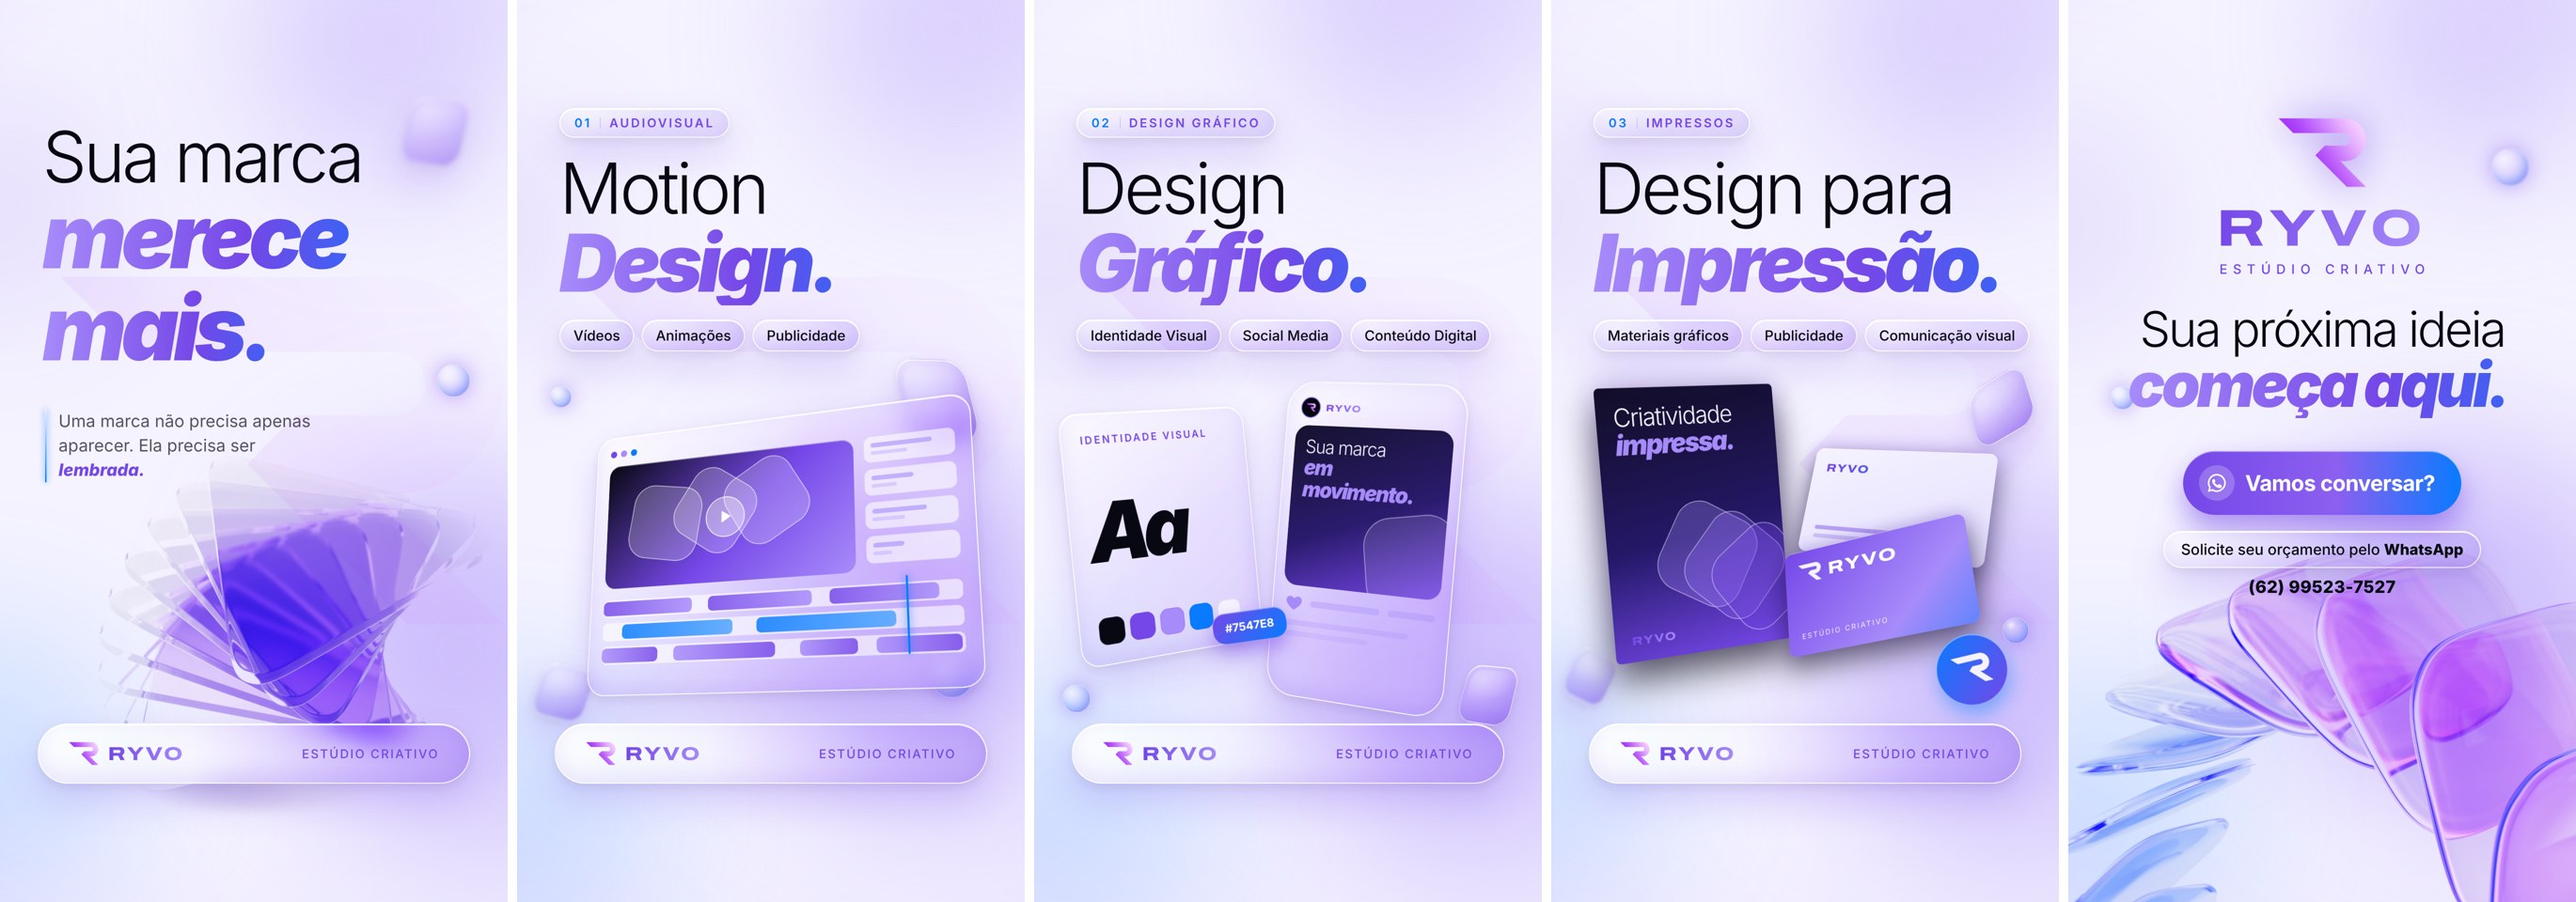
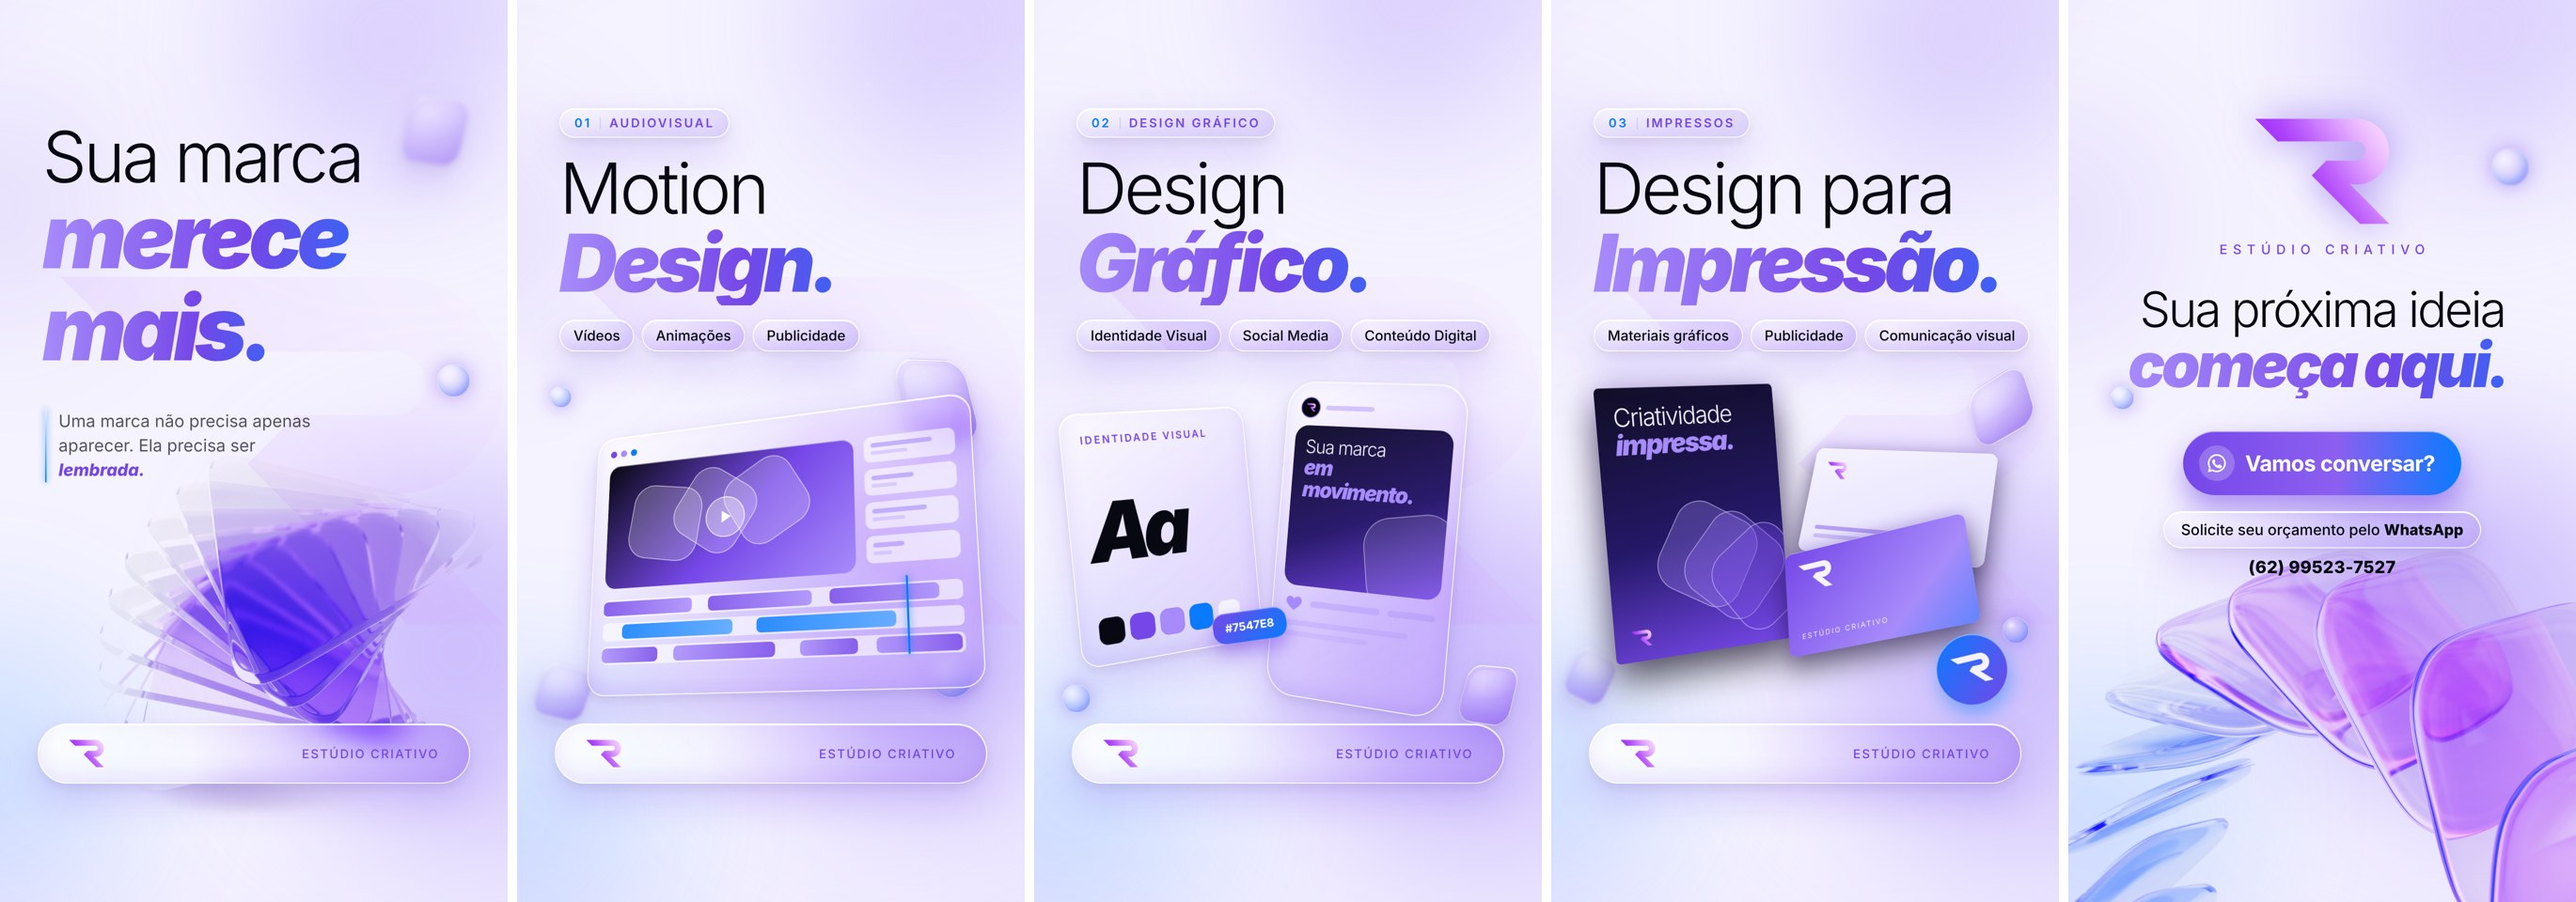
RYVO: marca só pelo símbolo R, tipografia só Inter
Claude-Session: https://claude.ai/code/session_01RMhrmJ1z1ZndANTpDwqCSa

diff --git a/src/ryvo/scenes/Scene4Impressao.tsx b/src/ryvo/scenes/Scene4Impressao.tsx
@@ -1,7 +1,7 @@
 import React from "react";
 import { AbsoluteFill, useCurrentFrame } from "remotion";
-import { Bubble, Chips, Eyebrow, GlassTile, Headline, LogoMark, LogoText, useProgress } from "../components";
-import { FONT, LOGO_FONT } from "../theme";
+import { Bubble, Chips, Eyebrow, GlassTile, Headline, LogoMark, useProgress } from "../components";
+import { FONT } from "../theme";
 
 const Card: React.FC<{ front?: boolean }> = ({ front }) => (
   <div
@@ -21,17 +21,12 @@ const Card: React.FC<{ front?: boolean }> = ({ front }) => (
   >
     {front ? (
       <>
-        <div style={{ display: "flex", alignItems: "center", gap: 16 }}>
-          <LogoMark height={44} white />
-          <span style={{ fontFamily: LOGO_FONT, fontStretch: "125%", fontWeight: 800, fontSize: 40, letterSpacing: "0.1em", color: "#fff" }}>
-            RYVO
-          </span>
-        </div>
+        <LogoMark height={64} white />
         <span style={{ fontFamily: FONT, fontSize: 16, letterSpacing: "0.2em", color: "rgba(255,255,255,0.85)" }}>ESTÚDIO CRIATIVO</span>
       </>
     ) : (
       <>
-        <LogoText size={26} style={{ background: "linear-gradient(90deg, #7547E8, #087BFF)", WebkitBackgroundClip: "text", backgroundClip: "text" }} />
+        <LogoMark height={40} />
         <div>
           <div style={{ height: 9, width: 180, borderRadius: 5, background: "rgba(117,71,232,0.45)" }} />
           <div style={{ height: 9, width: 130, borderRadius: 5, marginTop: 10, background: "rgba(117,71,232,0.25)" }} />
@@ -89,7 +84,7 @@ const Visual: React.FC = () => {
           />
         ))}
         <div style={{ position: "absolute", left: 36, bottom: 30 }}>
-          <LogoText size={24} />
+          <LogoMark height={34} />
         </div>
       </div>
 
@@ -133,12 +128,6 @@ const Visual: React.FC = () => {
           alignItems: "center",
           justifyContent: "center",
           boxShadow: "0 20px 40px rgba(8,123,255,0.45), inset 0 2px 0 rgba(255,255,255,0.5)",
-          fontFamily: LOGO_FONT,
-          fontStretch: "125%",
-          fontWeight: 800,
-          fontSize: 30,
-          color: "#fff",
-          letterSpacing: "0.08em",
         }}
       >
         <LogoMark height={64} white />

diff --git a/src/ryvo/scenes/Scene5Final.tsx b/src/ryvo/scenes/Scene5Final.tsx
@@ -1,7 +1,7 @@
 import React from "react";
 import { AbsoluteFill, Img, interpolate, staticFile, useCurrentFrame } from "remotion";
 import { useTheme } from "../ThemeContext";
-import { Bubble, Headline, LogoMark, LogoText, Reveal, useProgress } from "../components";
+import { Bubble, Headline, LogoMark, Reveal, useProgress } from "../components";
 import { FONT } from "../theme";
 
 const WhatsIcon: React.FC<{ size: number }> = ({ size }) => (
@@ -42,16 +42,15 @@ export const Scene5Final: React.FC = () => {
 
       <div style={{ position: "absolute", left: 0, right: 0, top: 250, display: "flex", flexDirection: "column", alignItems: "center" }}>
         <div style={{ opacity: logo, filter: `blur(${(1 - logo) * 16}px)`, transform: `scale(${0.9 + logo * 0.1})`, textAlign: "center" }}>
-          <div style={{ display: "flex", justifyContent: "center", marginBottom: 26 }}>
+          <div style={{ display: "flex", justifyContent: "center", marginBottom: 34 }}>
             <LogoMark
-              height={150}
+              height={230}
               style={{
                 transform: `translateX(${(1 - logo) * -60}px) rotate(${(1 - logo) * -8}deg)`,
                 filter: `drop-shadow(0 0 ${30 + Math.sin(t * 2) * 10}px rgba(117,71,232,0.55))`,
               }}
             />
           </div>
-          <LogoText size={110} />
           <div style={{ fontSize: 28, letterSpacing: "0.42em", color: T.accentText, fontWeight: 500, marginTop: 10, paddingLeft: "0.42em" }}>
             ESTÚDIO CRIATIVO
           </div>

diff --git a/src/ryvo/components.tsx b/src/ryvo/components.tsx
@@ -8,7 +8,7 @@ import {
   useCurrentFrame,
   useVideoConfig,
 } from "remotion";
-import { FONT, LOGO_FONT, P } from "./theme";
+import { FONT, P } from "./theme";
 import { useTheme } from "./ThemeContext";
 
 const ease = Easing.bezier(0.16, 1, 0.3, 1);
@@ -209,28 +209,6 @@ export const Bubble: React.FC<{ size: number; x: number; y: number; phase?: numb
   );
 };
 
-export const LogoText: React.FC<{ size: number; style?: React.CSSProperties }> = ({ size, style }) => {
-  const T = useTheme();
-  return (
-  <span
-    style={{
-      fontFamily: LOGO_FONT,
-      fontStretch: "125%",
-      fontWeight: 800,
-      fontSize: size,
-      letterSpacing: "0.1em",
-      background: T.logoGradient,
-      WebkitBackgroundClip: "text",
-      backgroundClip: "text",
-      color: "transparent",
-      ...style,
-    }}
-  >
-    RYVO
-  </span>
-  );
-};
-
 /** Official RYVO "R" symbol (PNG with transparency, aspect 1348:1060). */
 export const LogoMark: React.FC<{ height: number; white?: boolean; style?: React.CSSProperties }> = ({
   height,
@@ -263,10 +241,7 @@ export const BrandBar: React.FC<{ opacity?: number }> = ({ opacity = 1 }) => {
       background: T.brandBarBg,
     }}
   >
-    <div style={{ display: "flex", alignItems: "center", gap: 20 }}>
-      <LogoMark height={50} />
-      <LogoText size={40} />
-    </div>
+    <LogoMark height={60} />
     <span style={{ fontFamily: FONT, fontSize: 26, letterSpacing: "0.12em", color: T.accentText, fontWeight: 500 }}>
       ESTÚDIO CRIATIVO
     </span>

diff --git a/src/ryvo/scenes/Scene3Grafico.tsx b/src/ryvo/scenes/Scene3Grafico.tsx
@@ -1,7 +1,7 @@
 import React from "react";
 import { AbsoluteFill, interpolate, useCurrentFrame } from "remotion";
 import { useTheme } from "../ThemeContext";
-import { Bubble, Chips, Eyebrow, GlassTile, Headline, LogoMark, LogoText, useProgress } from "../components";
+import { Bubble, Chips, Eyebrow, GlassTile, Headline, LogoMark, useProgress } from "../components";
 import { FONT } from "../theme";
 
 /** Phone with a social post + identity board, fanned in 3D. */
@@ -76,7 +76,7 @@ const Visual: React.FC = () => {
           <div style={{ width: 46, height: 46, borderRadius: 23, background: "#080812", border: "2px solid #A78BFA", display: "flex", alignItems: "center", justifyContent: "center" }}>
             <LogoMark height={18} />
           </div>
-          <LogoText size={20} />
+          <div style={{ height: 10, width: 110, borderRadius: 5, background: "rgba(167,139,250,0.45)" }} />
         </div>
         <div
           style={{

diff --git a/src/ryvo/theme.ts b/src/ryvo/theme.ts
@@ -1,12 +1,11 @@
 import "@fontsource-variable/inter";
 import "@fontsource-variable/inter/wght-italic.css";
-import "@fontsource-variable/archivo/wdth.css";
 
 export const FPS = 30;
 export const W = 1080;
 export const H = 1920;
 
-// Tipografia: no máximo 2 famílias — Inter (todos os textos) e Archivo Expanded (só o nome RYVO).
+// Tipografia: uma família só (Inter). A marca aparece apenas pelo símbolo R.
 
 // Paleta oficial RYVO
 export const P = {
@@ -27,7 +26,6 @@ export const C = {
 };
 
 export const FONT = "'Inter Variable', Inter, sans-serif";
-export const LOGO_FONT = "'Archivo Variable', Archivo, sans-serif";
 
 export const headlineGradient = `linear-gradient(90deg, ${P.ice} 0%, ${P.lavender} 45%, ${P.violet} 100%)`;
 export const logoGradient = `linear-gradient(90deg, ${P.ice} 0%, ${P.lavender} 100%)`;

diff --git a/entrega/ROTEIRO-RYVO-adaptado.md b/entrega/ROTEIRO-RYVO-adaptado.md
@@ -2,7 +2,7 @@
 
 Formato: vertical 1080x1920 (Reels/Stories), 30fps.
 Estilo: glassmorphism escuro com a paleta oficial RYVO: Preto profundo #080812 (base), Violeta elétrico #7547E8 (identidade), Lavanda luminosa #A78BFA (luzes e gradientes), Azul elétrico #087BFF (detalhes tecnológicos) e Branco gelo #F5F3FF (textos). Peças de vidro 3D do Drive ajustadas para o fundo escuro.
-Barra de vidro "RYVO | ESTÚDIO CRIATIVO" fixa embaixo nas cenas 1 a 4 (como no post).
+Barra de vidro com o símbolo R + "ESTÚDIO CRIATIVO" fixa embaixo nas cenas 1 a 4 (como no post).
 
 A locução está igual à do cliente. As mudanças foram só no texto da tela (marcadas com ✎).
 
@@ -44,9 +44,9 @@ A locução está igual à do cliente. As mudanças foram só no texto da tela (
 **Locução:** "E levamos sua comunicação além das telas, com materiais gráficos e publicitários que dão vida à sua marca."
 
 ## CENA 05 — Encerramento / Conversão (~8,0s)
-**Visual:** o anel de pétalas de vidro sobe por trás, a logo RYVO aparece grande no centro e o botão do WhatsApp entra com brilho e pulso.
+**Visual:** o anel de pétalas de vidro sobe por trás, o símbolo R aparece grande no centro e o botão do WhatsApp entra com brilho e pulso.
 **Texto na tela:**
-- RYVO — ESTÚDIO CRIATIVO
+- Símbolo R + ESTÚDIO CRIATIVO
 - Sua próxima ideia **começa aqui.**
 - Botão: Vamos conversar?
 - Solicite seu orçamento pelo **WhatsApp**
@@ -72,5 +72,4 @@ A locução está igual à do cliente. As mudanças foram só no texto da tela (
 
 ## Pendências
 - Confirmar o WhatsApp e mandar o @ do Instagram, se for para aparecer no final.
-- Mandar a logo RYVO em vetor (SVG/PDF) para substituir a versão recriada.
 - Confirmar a pronúncia de "RYVO".
